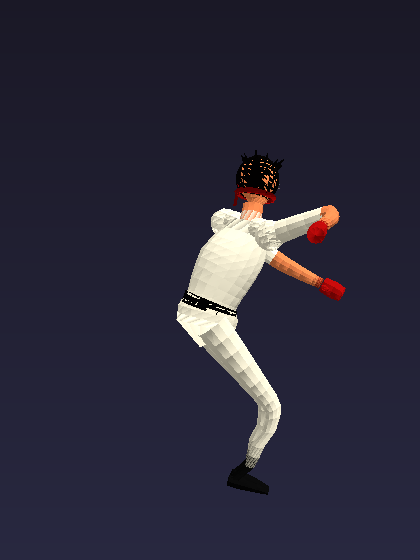
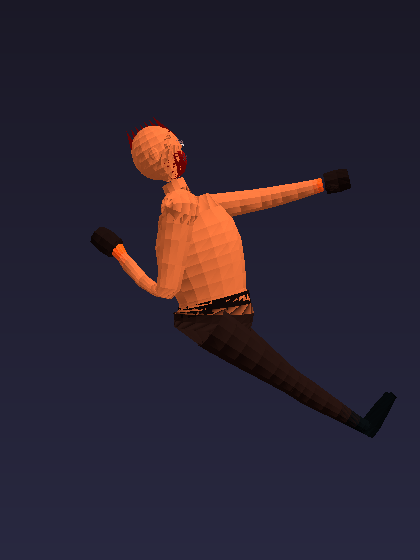
v0.19: personalidad del barrido por personaje, suelo/aire/crouch pulidos

Changed region(s): [[0.2167, 0.2125, 0.9595, 0.8804]]

diff --git a/src/data/roster.js b/src/data/roster.js
@@ -27,7 +27,7 @@ const KENJI = {
     gi: '#e9e6da', trim: '#b71c1c', skin: '#e7b189', hair: '#241d1a',
     belt: '#141414', accent: '#ff5252', aura: '#7fd4ff', glove: '#c62828', boot: '#2b2b2b'
   },
-  body: { height: 1.02, bulk: 1.0, armLen: 1.0, legLen: 1.0, head: 1.0, hair: 'spiky', band: 'headband', chargeStyle: { pName: 'Arashi Rush', kName: 'Arashi Drive', pSpeed: 0.24, kSpeed: 0.26 } },
+  body: { height: 1.02, bulk: 1.0, armLen: 1.0, legLen: 1.0, head: 1.0, hair: 'spiky', band: 'headband', sweepStyle: 'sweep', chargeStyle: { pName: 'Arashi Rush', kName: 'Arashi Drive', pSpeed: 0.24, kSpeed: 0.26 } },
   stats: { health: 1000, walk: 0.062, back: 0.052, power: 1.0, speed: 1.0, reach: 1.0, defense: 1.0, jump: 1.0, weight: 1.0 },
   fx: '#8fd8ff',
   specials: [
@@ -101,7 +101,7 @@ const VALERIA = {
     gi: '#ffd54f', trim: '#00897b', skin: '#c68642', hair: '#3e2723',
     belt: '#00695c', accent: '#00e5ff', aura: '#ffd54f', glove: '#ff7043', boot: '#ffffff'
   },
-  body: { height: 0.96, bulk: 0.82, armLen: 0.98, legLen: 1.12, head: 0.95, hair: 'ponytail', female: true, top: 'tank', bottom: 'shorts', chargeStyle: { pName: 'Vendaval', kName: 'Tijera Voladora', pStartup: 9, kStartup: 11, pSpeed: 0.28, kSpeed: 0.3, pDmg: 64, kDmg: 74 } },
+  body: { height: 0.96, bulk: 0.82, armLen: 0.98, legLen: 1.12, head: 0.95, hair: 'ponytail', female: true, top: 'tank', bottom: 'shorts', sweepStyle: 'slide', chargeStyle: { pName: 'Vendaval', kName: 'Tijera Voladora', pStartup: 9, kStartup: 11, pSpeed: 0.28, kSpeed: 0.3, pDmg: 64, kDmg: 74 } },
   stats: { health: 900, walk: 0.078, back: 0.064, power: 0.9, speed: 1.16, reach: 1.02, defense: 0.9, jump: 1.05, weight: 0.9 },
   fx: '#ffe082',
   specials: [
@@ -177,7 +177,7 @@ const BRUTUS = {
     gi: '#5d4037', trim: '#ff8f00', skin: '#e0a075', hair: '#c62828',
     belt: '#3e2723', accent: '#ffb300', aura: '#ff7043', glove: '#4e342e', boot: '#263238'
   },
-  body: { height: 1.16, bulk: 1.42, armLen: 1.05, legLen: 0.9, head: 1.05, hair: 'mohawk', beard: true, top: 'bare', chargeStyle: { pName: 'Bulldozer', kName: 'Tronco', pStartup: 14, kStartup: 16, pSpeed: 0.18, kSpeed: 0.2, pDmg: 92, kDmg: 102 } },
+  body: { height: 1.16, bulk: 1.42, armLen: 1.05, legLen: 0.9, head: 1.05, hair: 'mohawk', beard: true, top: 'bare', sweepStyle: 'both', chargeStyle: { pName: 'Bulldozer', kName: 'Tronco', pStartup: 14, kStartup: 16, pSpeed: 0.18, kSpeed: 0.2, pDmg: 92, kDmg: 102 } },
   stats: { health: 1180, walk: 0.046, back: 0.038, power: 1.24, speed: 0.82, reach: 1.02, defense: 1.22, jump: 0.82, weight: 1.3 },
   fx: '#ff8a65',
   throwRange: 1.55, throwDamage: 130,
@@ -239,7 +239,7 @@ const KAGEROU = {
     gi: '#263238', trim: '#7b1fa2', skin: '#d8a173', hair: '#121212',
     belt: '#4a148c', accent: '#e040fb', aura: '#b388ff', glove: '#1a1a1a', boot: '#37474f'
   },
-  body: { height: 0.94, bulk: 0.8, armLen: 0.95, legLen: 1.05, head: 0.92, hair: 'mask', scarf: true, chargeStyle: { pName: 'Paso Fantasma', kName: 'Guadaña', pStartup: 8, kStartup: 10, pSpeed: 0.3, kSpeed: 0.3, pDmg: 58, kDmg: 68 } },
+  body: { height: 0.94, bulk: 0.8, armLen: 0.95, legLen: 1.05, head: 0.92, hair: 'mask', scarf: true, sweepStyle: 'slide', chargeStyle: { pName: 'Paso Fantasma', kName: 'Guadaña', pStartup: 8, kStartup: 10, pSpeed: 0.3, kSpeed: 0.3, pDmg: 58, kDmg: 68 } },
   stats: { health: 880, walk: 0.086, back: 0.072, power: 0.86, speed: 1.22, reach: 0.94, defense: 0.88, jump: 1.12, weight: 0.85 },
   fx: '#ce93d8',
   specials: [
@@ -310,7 +310,7 @@ const MAGNUS = {
     gi: '#ff7043', trim: '#4527a0', skin: '#f0c8a0', hair: '#eceff1',
     belt: '#311b92', accent: '#ffab40', aura: '#ff6e40', glove: '#ede7f6', boot: '#ffab40'
   },
-  body: { height: 1.1, bulk: 0.74, armLen: 1.5, legLen: 1.2, head: 0.9, hair: 'bald', turban: true, chargeStyle: { pName: 'Lanza del Dawn', kName: 'Media Luna', pSpeed: 0.2, kSpeed: 0.22 } },
+  body: { height: 1.1, bulk: 0.74, armLen: 1.5, legLen: 1.2, head: 0.9, hair: 'bald', turban: true, sweepStyle: 'sweep', chargeStyle: { pName: 'Lanza del Dawn', kName: 'Media Luna', pSpeed: 0.2, kSpeed: 0.22 } },
   stats: { health: 920, walk: 0.048, back: 0.042, power: 1.05, speed: 0.9, reach: 1.55, defense: 1.0, jump: 0.95, weight: 1.0 },
   fx: '#ff8a65',
   specials: [
@@ -376,7 +376,7 @@ const REX = {
     gi: '#37474f', trim: '#fdd835', skin: '#e8b98f', hair: '#8d6e63',
     belt: '#263238', accent: '#40c4ff', aura: '#80d8ff', glove: '#1b5e20', boot: '#212121'
   },
-  body: { height: 1.08, bulk: 1.14, armLen: 1.06, legLen: 1.0, head: 1.0, hair: 'flat', cap: true, chargeStyle: { pName: 'Shoulder Ram', kName: 'Boot Hill', pStartup: 12, kStartup: 13, pSpeed: 0.22, pDmg: 80 } },
+  body: { height: 1.08, bulk: 1.14, armLen: 1.06, legLen: 1.0, head: 1.0, hair: 'flat', cap: true, sweepStyle: 'both', chargeStyle: { pName: 'Shoulder Ram', kName: 'Boot Hill', pStartup: 12, kStartup: 13, pSpeed: 0.22, pDmg: 80 } },
   stats: { health: 1020, walk: 0.056, back: 0.052, power: 1.06, speed: 0.94, reach: 1.06, defense: 1.1, jump: 0.96, weight: 1.1 },
   fx: '#80d8ff',
   specials: [
@@ -447,7 +447,7 @@ const ORION = {
     gi: '#212121', trim: '#d50000', skin: '#d9a066', hair: '#ff5722',
     belt: '#b71c1c', accent: '#ff6d00', aura: '#ff3d00', glove: '#d50000', boot: '#1b1b1b'
   },
-  body: { height: 1.0, bulk: 0.96, armLen: 1.02, legLen: 1.0, head: 0.98, hair: 'flame', scarf: true, top: 'tank', chargeStyle: { pName: 'Llamarada', kName: 'Cometa', pSpeed: 0.26, kSpeed: 0.28, pDmg: 76 } },
+  body: { height: 1.0, bulk: 0.96, armLen: 1.02, legLen: 1.0, head: 0.98, hair: 'flame', scarf: true, top: 'tank', sweepStyle: 'slide', chargeStyle: { pName: 'Llamarada', kName: 'Cometa', pSpeed: 0.26, kSpeed: 0.28, pDmg: 76 } },
   stats: { health: 980, walk: 0.07, back: 0.056, power: 1.08, speed: 1.06, reach: 1.0, defense: 0.98, jump: 1.0, weight: 1.0 },
   fx: '#ff5722',
   specials: [
@@ -551,7 +551,7 @@ const SERA = {
     gi: '#e1f5fe', trim: '#0288d1', skin: '#f2cdb0', hair: '#7e57c2',
     belt: '#4fc3f7', accent: '#00e5ff', aura: '#80deea', glove: '#ffffff', boot: '#b39ddb'
   },
-  body: { height: 0.92, bulk: 0.76, armLen: 0.94, legLen: 1.06, head: 0.94, hair: 'long', female: true, top: 'tank', chargeStyle: { pName: 'Vals de Hielo', kName: 'Aurora', pSpeed: 0.22, kSpeed: 0.24, pDmg: 66 } },
+  body: { height: 0.92, bulk: 0.76, armLen: 0.94, legLen: 1.06, head: 0.94, hair: 'long', female: true, top: 'tank', sweepStyle: 'sweep', chargeStyle: { pName: 'Vals de Hielo', kName: 'Aurora', pSpeed: 0.22, kSpeed: 0.24, pDmg: 66 } },
   stats: { health: 880, walk: 0.058, back: 0.052, power: 0.92, speed: 1.04, reach: 0.96, defense: 0.92, jump: 1.08, weight: 0.88 },
   fx: '#80deea',
   specials: [
@@ -624,7 +624,7 @@ const GORAN = {
     gi: '#795548', trim: '#558b2f', skin: '#dba87e', hair: '#4e342e',
     belt: '#33691e', accent: '#aed581', aura: '#a1887f', glove: '#6d4c41', boot: '#3e2723'
   },
-  body: { height: 1.2, bulk: 1.5, armLen: 1.1, legLen: 0.88, head: 1.06, hair: 'bald', beard: true, top: 'bare', chargeStyle: { pName: 'Seismo', kName: 'Avalancha', pStartup: 15, kStartup: 17, pSpeed: 0.16, kSpeed: 0.18, pDmg: 96, kDmg: 106 } },
+  body: { height: 1.2, bulk: 1.5, armLen: 1.1, legLen: 0.88, head: 1.06, hair: 'bald', beard: true, top: 'bare', sweepStyle: 'both', chargeStyle: { pName: 'Seismo', kName: 'Avalancha', pStartup: 15, kStartup: 17, pSpeed: 0.16, kSpeed: 0.18, pDmg: 96, kDmg: 106 } },
   stats: { health: 1240, walk: 0.042, back: 0.036, power: 1.32, speed: 0.76, reach: 1.05, defense: 1.3, jump: 0.76, weight: 1.4 },
   fx: '#a1887f',
   throwRange: 1.6, throwDamage: 135,
@@ -690,7 +690,7 @@ const VESPER = {
     gi: '#1a237e', trim: '#ffee58', skin: '#f0c9a8', hair: '#ffee58',
     belt: '#fdd835', accent: '#ffff00', aura: '#40c4ff', glove: '#283593', boot: '#fdd835'
   },
-  body: { height: 0.98, bulk: 0.88, armLen: 1.0, legLen: 1.1, head: 0.96, hair: 'spiky', visor: true, female: true, top: 'tank', bottom: 'shorts', chargeStyle: { pName: 'Sprint Volt', kName: 'Patada Tesla', pStartup: 8, kStartup: 10, pSpeed: 0.3, pDmg: 60, kDmg: 70 } },
+  body: { height: 0.98, bulk: 0.88, armLen: 1.0, legLen: 1.1, head: 0.96, hair: 'spiky', visor: true, female: true, top: 'tank', bottom: 'shorts', sweepStyle: 'slide', chargeStyle: { pName: 'Sprint Volt', kName: 'Patada Tesla', pStartup: 8, kStartup: 10, pSpeed: 0.3, pDmg: 60, kDmg: 70 } },
   stats: { health: 940, walk: 0.08, back: 0.066, power: 0.98, speed: 1.14, reach: 1.0, defense: 0.94, jump: 1.14, weight: 0.92 },
   fx: '#40c4ff',
   specials: [

diff --git a/src/render/rig.js b/src/render/rig.js
@@ -198,6 +198,12 @@ export class Rig {
     const drift = plan.loop ? 0 : 0.45;
     this.hips.position.x = this.rootA[0] * drift;
     this.hips.position.z = this.rootA[2] * drift;
+    // En ataques aereos el root del clip (y su fundido desde el salto) tira
+    // del cuerpo atras: el "amago" de recular. Se anula por completo.
+    if (plan.attack && f.airborne) {
+      this.hips.position.x = 0;
+      this.hips.position.z = 0;
+    }
 
     // --- posición y orientación ---
     this.root.position.set(f.x || 0, f.y || 0, 0);
@@ -319,11 +325,14 @@ export class Rig {
       const g = GUARD[`hand${side}`];
       const pe = GUARD[`elbow${side}`];
       // Agachado: la guardia baja con la cadera, no se queda a altura de pie.
-      const drop = (f.anim && f.anim.pose === 'crouch') ? 0.42 * s : 0;
+      // Manos pegadas delante de la cara y codos BELOW (nada de brazos en jarra).
+      const crouchG = f.anim && f.anim.pose === 'crouch';
+      const drop = crouchG ? 0.42 * s : 0;
       // guardBias: cada luchador lleva las manos mas largas/cortas o altas.
-      _v1.set(g[0], g[1] - drop + (this.guardBias || 0) * 0.3 * s, g[2] + drop * 0.3 + (this.guardBias || 0) * 0.5 * s);
+      _v1.set(g[0] * (crouchG ? 0.7 : 1), g[1] - drop + (this.guardBias || 0) * 0.3 * s,
+        (g[2] + drop * 0.3) * (crouchG ? 0.85 : 1) + (this.guardBias || 0) * 0.5 * s);
       this.body.localToWorld(_v1);
-      _v2.set(pe[0], pe[1] - drop * 0.6, pe[2]);
+      _v2.set(pe[0] * (crouchG ? 0.6 : 1), pe[1] - drop * (crouchG ? 1.1 : 0.6), pe[2]);
       this.body.localToWorld(_v2);
 
       hand.getWorldPosition(_v3);
@@ -513,11 +522,13 @@ export class Rig {
       }
       if (e < 0) { this.bones.RightUpLeg.rotateX(this.kickSign * e * 1.4); return; }
       const sweep = mv.input && mv.input.dir === '2';
+      const sweepStyle = sweep ? (this.def.sweepStyle || (this.def.body || {}).sweepStyle || 'sweep') : 'sweep';
       const charge = (mv.tags || []).includes('charge');
       const seed = this.styleSeed;
-      // Barrido: ras de suelo. Embestida: media y contundente. El resto, a la
-      // altura del hitbox con matiz por personaje.
-      const yKick = sweep ? 0.13 * s : (charge ? hT * 0.8 : hT * (0.96 + 0.08 * seed));
+      // Barrido/segada: ras de suelo. Embestida: media y contundente. El resto,
+      // a la altura del hitbox con matiz por personaje.
+      const yKick = sweep ? (sweepStyle === 'both' ? 0.16 * s : 0.12 * s)
+        : (charge ? hT * 0.8 : hT * (0.96 + 0.08 * seed));
       const legLen = up.getWorldPosition(_aA).distanceTo(leg.getWorldPosition(_aB))
         + leg.getWorldPosition(_aB).distanceTo(foot.getWorldPosition(_aC));
       // Pierna de pateo PLENA hacia la altura del golpe
@@ -527,11 +538,31 @@ export class Rig {
       this.body.localToWorld(_v2);
       this.aimChain(up, leg, foot, _v1, _v2, w);
       this.body.updateMatrixWorld(true);
-      // Apoyo: casi recto y pie pivotado (talón hacia el rival), como en 2D
-      this.bones.LeftUpLeg.rotateX(0.10 * e);
-      this.bones.LeftFoot.rotateY(-1.0 * e);
-      if (sweep) {
-        // Barrido: sentado atrás sobre el apoyo, pierna rasa
+      if (sweep && sweepStyle === 'slide') {
+        // Segada de futbol: apoyo plegado bajo el cuerpo, ras de suelo y
+        // deslizamiento (el lunge del move), tronco atrás.
+        this.bones.LeftUpLeg.rotateX(0.90 * e);
+        this.bones.LeftLeg.rotateX(1.30 * e);
+        this.bones.LeftFoot.rotateY(-0.4 * e);
+        this.hips.position.y -= 0.10 * s * e;
+        this.bones.LowerBack.rotateX(-0.34 * e);
+        this.bones.Spine.rotateX(-0.14 * e);
+      } else if (sweep && sweepStyle === 'both') {
+        // Mole de poder: entra con las dos piernas extendidas delante.
+        // aimChain (no rotaciones sueltas): el IK de postura ya doblo la
+        // pierna de apoyo y solo un objetivo absoluto la estira.
+        _v1.set(0.07 * s, 0.20 * s, legLen * 0.88 * (0.35 + 0.65 * e));
+        this.body.localToWorld(_v1);
+        _v2.set(0.10 * s, 0.45 * s, 0.30 * s);
+        this.body.localToWorld(_v2);
+        this.aimChain(this.bones.LeftUpLeg, this.bones.LeftLeg, this.bones.LeftFoot, _v1, _v2, w);
+        this.body.updateMatrixWorld(true);
+        this.bones.LowerBack.rotateX(-0.30 * e);
+        this.bones.Spine.rotateX(-0.12 * e);
+      } else if (sweep) {
+        // Barrido clasico: apoyo casi recto y pie pivotado (talon al rival)
+        this.bones.LeftUpLeg.rotateX(0.10 * e);
+        this.bones.LeftFoot.rotateY(-1.0 * e);
         this.bones.LowerBack.rotateX(-0.30 * e);
         this.bones.Spine.rotateX(-0.12 * e);
       } else if (charge) {
@@ -747,7 +778,9 @@ export class Rig {
 
   fixGround() {
     let lowest = Infinity;
-    for (const n of ['LeftFoot', 'RightFoot']) {
+    // dedos incluidos: si el pie rota (barrido, crouch) el tobillo puede
+    // quedar arriba mientras el dedo atraviesa el suelo.
+    for (const n of ['LeftFoot', 'RightFoot', 'LeftToeBase', 'RightToeBase']) {
       const b = this.bones[n];
       if (!b) continue;
       b.getWorldPosition(_v1);
@@ -755,7 +788,7 @@ export class Rig {
     }
     if (!Number.isFinite(lowest)) return;
     const sink = -lowest;              // cuánto hay que subir para apoyar
-    if (sink > 0.0005 && sink < 0.22) {
+    if (sink > 0.0005 && sink < 0.3) {
       this.hips.position.y += sink;
       this.body.updateMatrixWorld(true);
     }

diff --git a/src/version.js b/src/version.js
@@ -4,8 +4,8 @@
  * (lo rellena con el commit HEAD y la fecha actuales) antes de cada entrega.
  */
 export const BUILD = {
-  tag: 'v0.18',
-  commit: '0b7f873',
+  tag: 'v0.19',
+  commit: '7134e50',
   date: '2026-09-23',
-  notes: 'Crouch-attacks sin hundido ni tabla horizontal (pesos de hueso corregidos en densify); golpe aereo conserva momento del salto; cejas/pomulos de perfil; sesgos de estilo en guardia y tronco'
+  notes: 'Barrido con personalidad (roundhouse raso / segada deslizante / entrada a dos piernas), toes sin atravesar suelo, sin amago atras en salto aereo, guardia de crouch compacta sin brazos en jarra'
 };

diff --git a/src/data/moves.js b/src/data/moves.js
@@ -170,6 +170,8 @@ export function buildNormals(def) {
     id: '2HK', name: 'Sweep', level: 'H', pose: 'sweep',
     input: { button: 'HK', dir: '2' },
     startup: S(11), active: 3, recovery: S(28),
+    motion: { type: 'lunge', start: 2, frames: S(11) + 3,
+      speed: (def.body || {}).sweepStyle === 'slide' ? 0.22 : (def.body || {}).sweepStyle === 'both' ? 0.14 : 0.06 },
     hits: [hit({
       box: box(1.0 * reach, 0.3, 1.5 * reach, 0.42), damage: dmg(74), level: 'H',
       low: true, knockdown: true, juggle: 0
